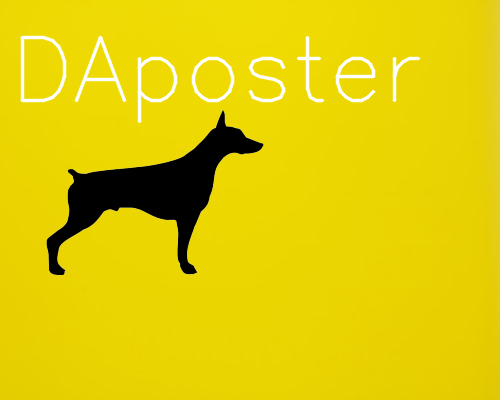
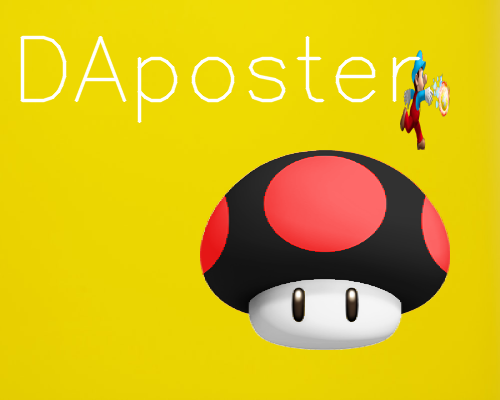
added other_pictures

Changed region(s): [[0.09, 0.27, 0.9, 0.9], [0.78, 0.12, 0.9, 0.39]]

diff --git a/DAposterPythonScript/main.py b/DAposterPythonScript/main.py
@@ -1,5 +1,4 @@
 import random
-
 import cv2
 import numpy as np
 import matplotlib.pyplot as plt
@@ -26,29 +25,44 @@ def writing_text(image, text, x, y):
     cv2.putText(image, text, (x, y), font, 3, (255, 255, 255), 2, cv2.LINE_AA)
     return image
 
-x, y = 30, 100
 
-file = f.readline(open("parameters/backgroung.txt", "r"))
-col = file[0]
-path = 'background/' + col + '.png'
+x = [50, 400, 50, 400]
+y = [50, 50, 350, 350]
+
+with open('parameters/backgroung.txt') as file:
+    col = file.readlines()
+    path = 'background/' + col[0] + '.png'
+    print(path)
+    background = cv2.imread(path)
+    background = resize(background, WIDTH, HEIGHT)
+    file.close()
+
+with open("parameters/other_pictures.txt") as file:
+    list_other_pictures = file.readlines()
+    str1 = " ".join(list_other_pictures)
+    str1 = str1.split()
+    j = 0
+    for i in str1:
+        num = random.randint(1, 20)
+        num = str(num)
+        path = 'other_pictures/' + i + num + '.png'
+        print(path)
+        picture = cv2.imread(path, cv2.IMREAD_UNCHANGED)
+        picture = resize(picture, 50, 100)
+        final_image = overlay(background, picture, x[j], y[j])
+        cv2.imwrite("final_image/merged_transparent.png", final_image)
+        j += 1
+    file.close()
+
+num = random.randint(1, 12)
+num = str(num)
+path = 'central_pictures/Mario (' + num + ').png'
 print(path)
-background = cv2.imread(path)
-background = resize(background, WIDTH, HEIGHT)
-
-file = open("parameters/other_pictures", "r")
-print(file)
-for i in range(len(file)):
-    num = random.randint(1, 20)
-    path = 'other_pictures/' + num + '.png'
-    picture = cv2.imread(path, cv2.IMREAD_UNCHANGED)
-    picture = resize(picture, 150, 100)
-    final_image = overlay(background, picture, x, y)
-    cv2.imwrite("final_image/merged_transparent.png", final_image)
-
-picture = cv2.imread('central_picture/dog.png', cv2.IMREAD_UNCHANGED)
+picture = cv2.imread(path, cv2.IMREAD_UNCHANGED)
 picture = resize(picture, 250, 200)
 
-final_image = overlay(background, picture, 30, 100)
+
+final_image = overlay(final_image, picture, 200, 150)
 cv2.imwrite("final_image/merged_transparent.png", final_image)
 
 font = cv2.FONT_HERSHEY_SIMPLEX
@@ -56,7 +70,3 @@ final_image = writing_text(final_image, 'DAposter', 10, 100)
 cv2.imwrite("final_image/merged_transparent.png", final_image)
 cv2.imshow("Image", final_image)
 cv2.waitKey(0)
-#plt.imshow(final_image)
-#plt.show()
-
-
